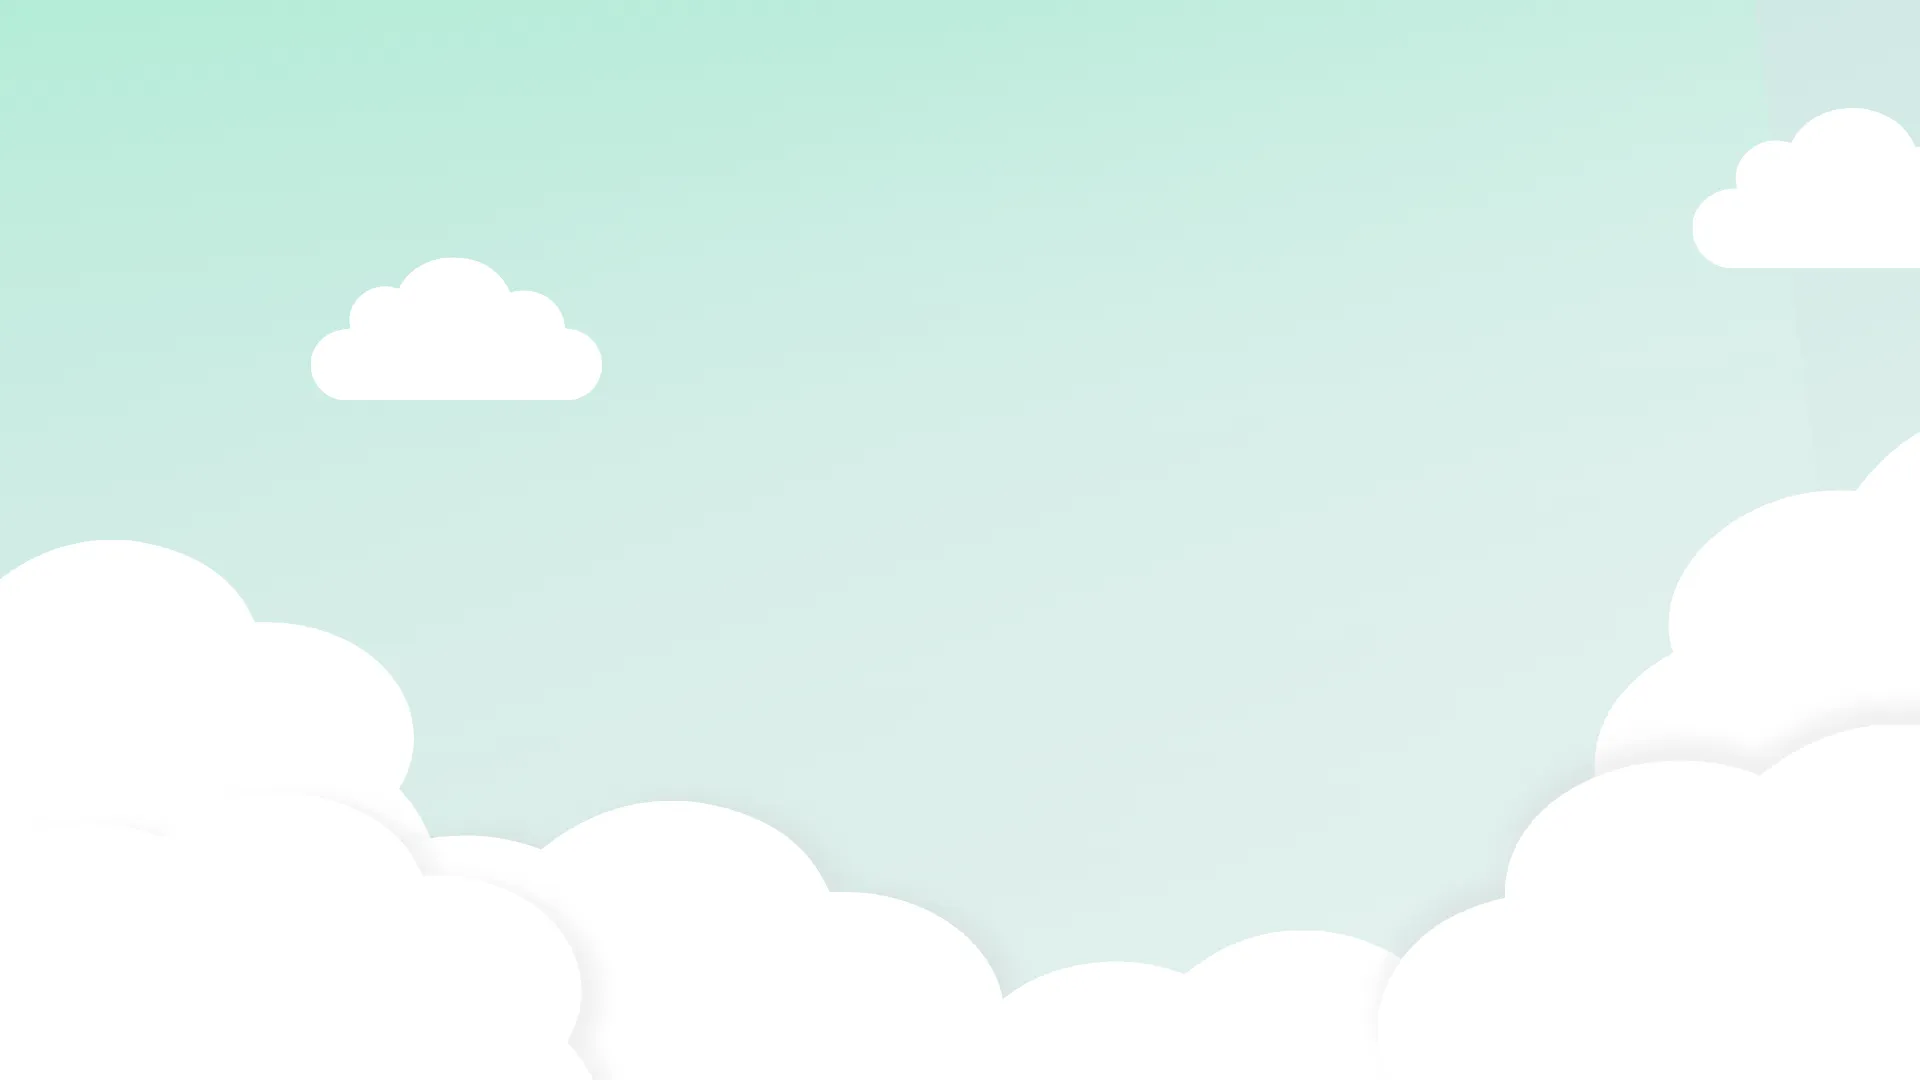
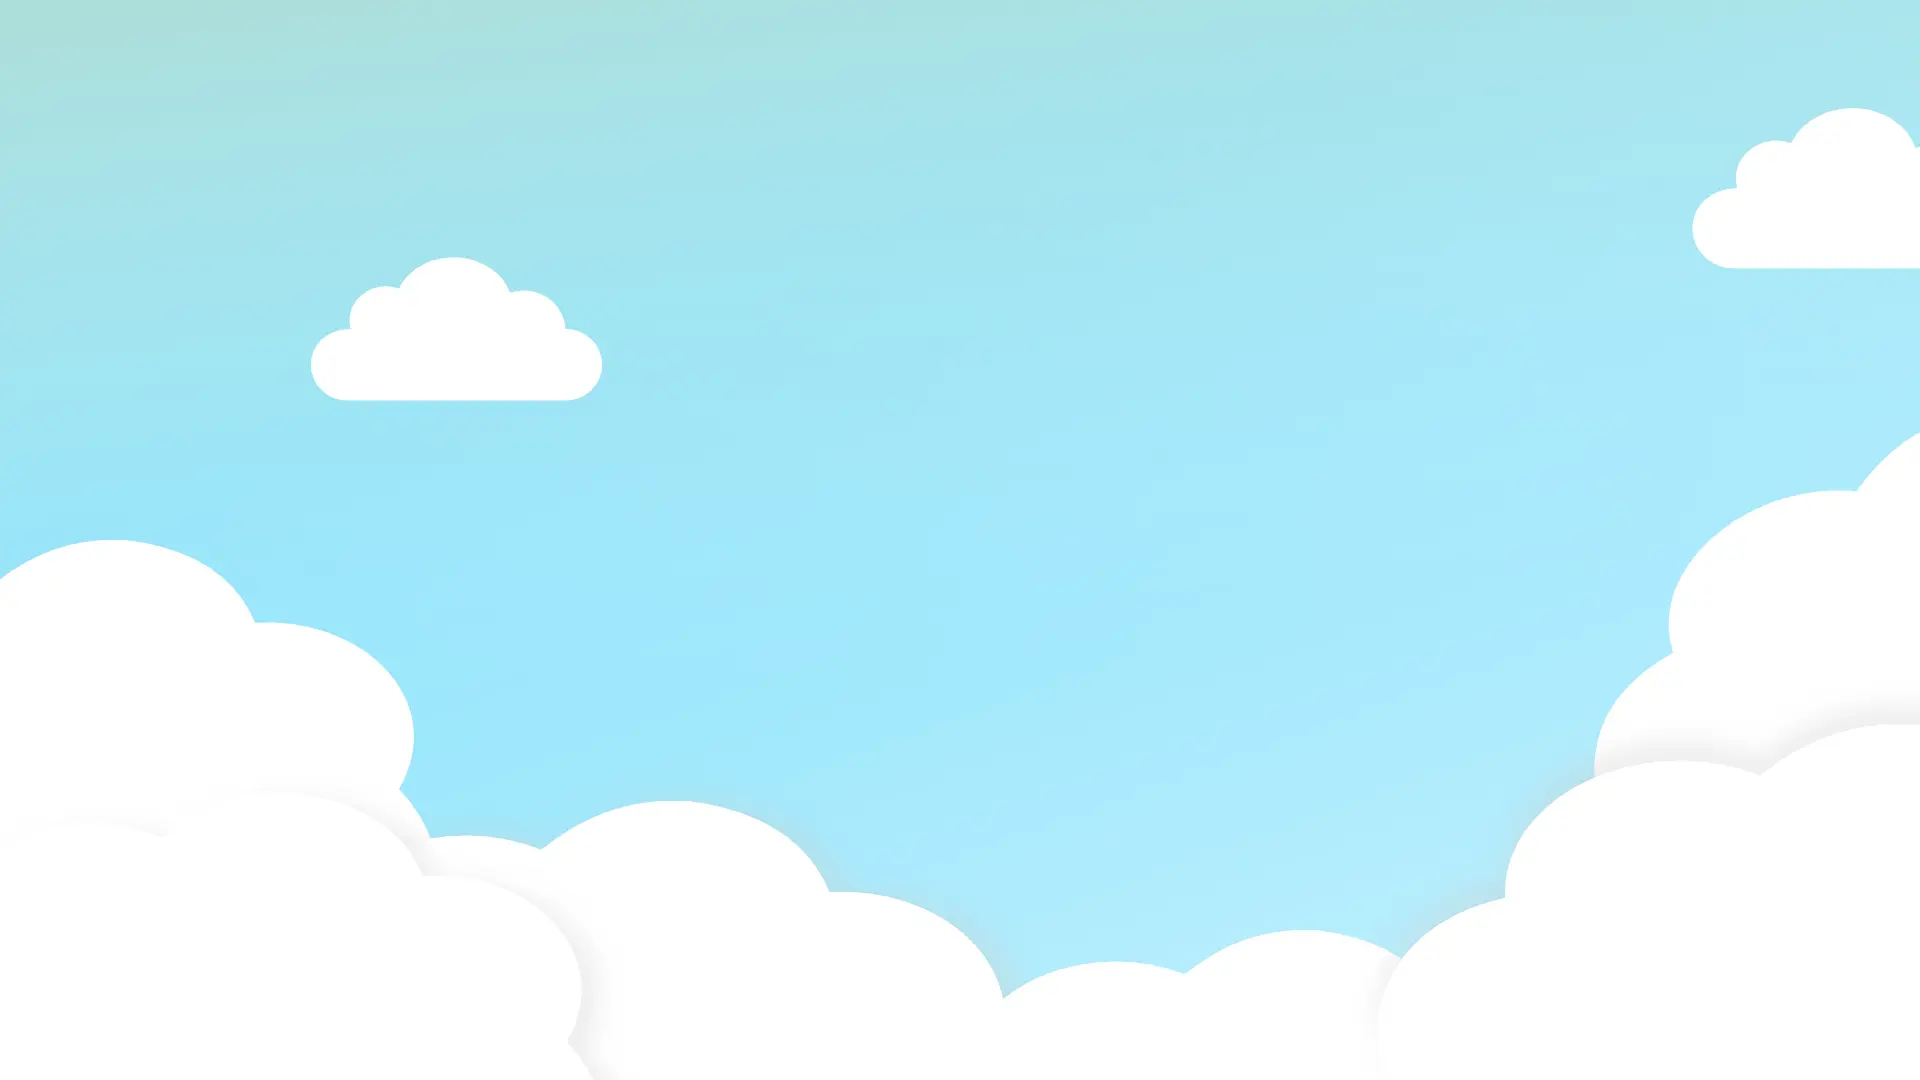
refactor(wardrobe): remove unused customization assets and clean up wardrobe options

diff --git a/mobile-app/lib/muni-wardrobe.ts b/mobile-app/lib/muni-wardrobe.ts
@@ -62,7 +62,6 @@ export const COLLECTION_SECTIONS: MuniCollectionSection[] = [
     id: "eye",
     label: "Eye",
     options: [
-      { id: "cinema-glasses", label: "Cinema Glasses", price: 110, source: require("../assets/images/Muni Customization/Eyes/Cinema_Glasses.webp") },
       { id: "circle-sunglasses", label: "Circle Sunglasses", price: 95, source: require("../assets/images/Muni Customization/Eyes/Circle_Sunglasses.webp") },
       { id: "cyber-visor", label: "Cyber Visor", price: 140, source: require("../assets/images/Muni Customization/Eyes/Cyber_Visor.webp") },
     ],
@@ -71,11 +70,7 @@ export const COLLECTION_SECTIONS: MuniCollectionSection[] = [
     id: "outfit",
     label: "Outfit",
     options: [
-      { id: "blue-bandana", label: "Blue Bandana", price: 80, source: require("../assets/images/Muni Customization/Head/Blue bandana.webp") },
-      { id: "green-bandana", label: "Green Bandana", price: 80, source: require("../assets/images/Muni Customization/Head/Green bandana.webp") },
-      { id: "red-bandana", label: "Red Bandana", price: 80, source: require("../assets/images/Muni Customization/Head/Red bandana.webp") },
       { id: "brown-jumper", label: "Brown Jumper", price: 130, source: require("../assets/images/Muni Customization/Outfit/Brown jumper.webp") },
-      { id: "denim-jumper", label: "Denim Jumper", price: 143, source: require("../assets/images/Muni Customization/Outfit/Demin jumper.webp") },
       { id: "denim-vest", label: "Denim Vest", price: 130, source: require("../assets/images/Muni Customization/Outfit/Demin vest.webp") },
       { id: "explorer-vest", label: "Explorer Vest", price: 156, source: require("../assets/images/Muni Customization/Outfit/Explorer vest.webp") },
       { id: "green-jumper", label: "Green Jumper", price: 130, source: require("../assets/images/Muni Customization/Outfit/Green jumper.webp") },
@@ -119,10 +114,19 @@ function wardrobeCacheKey(studentNumber: string) {
 }
 
 function cloneLoadout(loadout: MuniLoadout): MuniLoadout {
-  return {
+  const nextLoadout = {
     ...loadout,
     outfit: loadout.outfit === "spooky-ghost" ? null : loadout.outfit,
   };
+
+  for (const section of SECTION_IDS) {
+    const optionId = nextLoadout[section];
+    if (optionId && !getMuniCollectionOption(section, optionId)) {
+      nextLoadout[section] = null;
+    }
+  }
+
+  return nextLoadout;
 }
 
 function isMuniLoadout(value: unknown): value is MuniLoadout {
